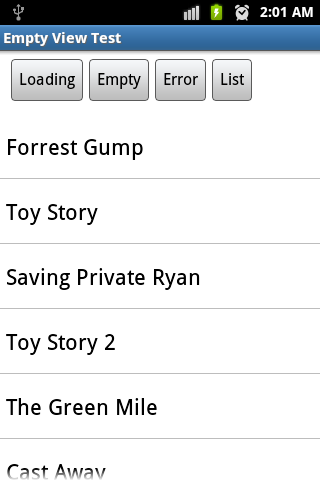
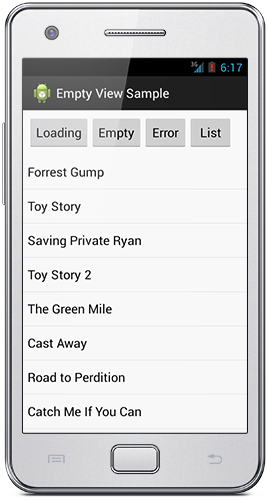
Buttons added in all empty layouts

diff --git a/EmptyLayout/src/com/kanak/emptylayout/EmptyLayout.java b/EmptyLayout/src/com/kanak/emptylayout/EmptyLayout.java
@@ -27,10 +27,12 @@ public class EmptyLayout {
 	private int mErrorMessageViewId;
 	private int mEmptyMessageViewId;
 	private int mLoadingMessageViewId;
-
-    private View.OnClickListener mLoadingViewClickListener;
-    private View.OnClickListener mEmptyViewClickListener;
-    private View.OnClickListener mErrorViewClickListener;
+	private LayoutInflater mInflater;
+	private boolean mViewsAdded;
+	private int mLoadingAnimationViewId;	
+	private View.OnClickListener mLoadingButtonClickListener;
+    private View.OnClickListener mEmptyButtonClickListener;
+    private View.OnClickListener mErrorButtonClickListener;
 
 	// ---------------------------
 	// static variables 
@@ -55,9 +57,12 @@ public class EmptyLayout {
 	private String mErrorMessage = "Oops! Something wrong happened";
 	private String mEmptyMessage = "No items yet";
 	private String mLoadingMessage = "Please wait";
-	private LayoutInflater mInflater;
-	private boolean mViewsAdded;
-	private int mLoadingAnimationViewId;
+	private int mLoadingViewButtonId = R.id.buttonLoading;
+	private int mErrorViewButtonId = R.id.buttonError;
+	private int mEmptyViewButtonId = R.id.buttonEmpty;
+	private boolean mShowEmptyButton = true;
+	private boolean mShowLoadingButton = true;
+	private boolean mShowErrorButton = true;
 
 	// ---------------------------
 	// getters and setters
@@ -283,69 +288,161 @@ public class EmptyLayout {
 	 */
 	public void setLoadingAnimationViewId(int loadingAnimationViewId) {
 		this.mLoadingAnimationViewId = loadingAnimationViewId;
-	}
-
-    /**
-     * Sets the OnClickListener to LoadingView
-     * @param loadingViewClickListener OnClickListener Object
-     */
-    public void setLoadingViewClickListener(View.OnClickListener loadingViewClickListener) {
-        this.mLoadingViewClickListener = loadingViewClickListener;
-        if(mLoadingView != null)
-            mLoadingView.setOnClickListener(mLoadingViewClickListener);
-    }
-
-    /**
-     * Sets the OnClickListener to EmptyView
-     * @param emptyViewClickListener OnClickListener Object
-     */
-    public void setEmptyViewClickListener(View.OnClickListener emptyViewClickListener) {
-        this.mEmptyViewClickListener = emptyViewClickListener;
-        if(mEmptyView != null)
-            mEmptyView.setOnClickListener(mEmptyViewClickListener);
-    }
-
-    /**
-     * Sets the OnClickListener to ErrorView
-     * @param errorViewClickListener OnClickListener Object
-     */
-    public void setErrorViewClickListener(View.OnClickListener errorViewClickListener) {
-        this.mErrorViewClickListener = errorViewClickListener;
-        if(mErrorView != null)
-            mErrorView.setOnClickListener(mErrorViewClickListener);
-    }
-
+	}	
 
     /**
      * Gets the OnClickListener which perform when LoadingView was click
      * @return
      */
-    public View.OnClickListener getLoadingViewClickListener() {
-        return mLoadingViewClickListener;
+    public View.OnClickListener getLoadingButtonClickListener() {
+        return mLoadingButtonClickListener;
     }
 
-
+    /**
+     * Sets the OnClickListener to LoadingView
+     * @param loadingButtonClickListener OnClickListener Object
+     */
+    public void setLoadingButtonClickListener(View.OnClickListener loadingButtonClickListener) {
+        this.mLoadingButtonClickListener = loadingButtonClickListener;
+    }
+    
     /**
      * Gets the OnClickListener which perform when EmptyView was click
      * @return
      */
-    public View.OnClickListener getEmptyViewClickListener() {
-        return mEmptyViewClickListener;
+    public View.OnClickListener getEmptyButtonClickListener() {
+        return mEmptyButtonClickListener;
     }
 
-
+    /**
+     * Sets the OnClickListener to EmptyView
+     * @param emptyButtonClickListener OnClickListener Object
+     */
+    public void setEmptyButtonClickListener(View.OnClickListener emptyButtonClickListener) {
+        this.mEmptyButtonClickListener = emptyButtonClickListener;
+    }
+    
     /**
      * Gets the OnClickListener which perform when ErrorView was click
      * @return
      */
-    public View.OnClickListener getErrorViewClickListener() {
-        return mErrorViewClickListener;
+    public View.OnClickListener getErrorButtonClickListener() {
+        return mErrorButtonClickListener;
     }
+
+    /**
+     * Sets the OnClickListener to ErrorView
+     * @param errorButtonClickListener OnClickListener Object
+     */
+    public void setErrorButtonClickListener(View.OnClickListener errorButtonClickListener) {
+        this.mErrorButtonClickListener = errorButtonClickListener;
+    }
+
+    /**
+     * Gets if a button is shown in the empty view
+     * @return if a button is shown in the empty view
+     */
+    public boolean isEmptyButtonShown() {
+		return mShowEmptyButton;
+	}
+
+    /**
+     * Sets if a button will be shown in the empty view
+     * @param showEmptyButton will a button be shown in the empty view
+     */
+	public void setEmptyButtonShown(boolean showEmptyButton) {
+		this.mShowEmptyButton = showEmptyButton;
+	}
+
+	/**
+     * Gets if a button is shown in the loading view
+     * @return if a button is shown in the loading view
+     */
+	public boolean isLoadingButtonShown() {
+		return mShowLoadingButton;
+	}
+
+	/**
+     * Sets if a button will be shown in the loading view
+     * @param showEmptyButton will a button be shown in the loading view
+     */
+	public void setLoadingButtonShown(boolean showLoadingButton) {
+		this.mShowLoadingButton = showLoadingButton;
+	}
+
+	/**
+     * Gets if a button is shown in the error view
+     * @return if a button is shown in the error view
+     */
+	public boolean isErrorButtonShown() {
+		return mShowErrorButton;
+	}
+
+	/**
+     * Sets if a button will be shown in the error view
+     * @param showEmptyButton will a button be shown in the error view
+     */
+	public void setErrorButtonShown(boolean showErrorButton) {
+		this.mShowErrorButton = showErrorButton;
+	}
+    
+	/**
+	 * Gets the ID of the button in the loading view
+	 * @return the ID of the button in the loading view
+	 */
+	public int getmLoadingViewButtonId() {
+		return mLoadingViewButtonId;
+	}	
+	
+	/**
+	 * Sets the ID of the button in the loading view. This ID is required if you want the button the loading view to be click-able.
+	 * @param loadingViewButtonId the ID of the button in the loading view
+	 */
+	public void setLoadingViewButtonId(int loadingViewButtonId) {
+		this.mLoadingViewButtonId = loadingViewButtonId;
+	}
+
+	/**
+	 * Gets the ID of the button in the error view
+	 * @return the ID of the button in the error view
+	 */
+	public int getErrorViewButtonId() {
+		return mErrorViewButtonId;
+	}
+
+	/**
+	 * Sets the ID of the button in the error view. This ID is required if you want the button the error view to be click-able.
+	 * @param errorViewButtonId the ID of the button in the error view
+	 */
+	public void setErrorViewButtonId(int errorViewButtonId) {
+		this.mErrorViewButtonId = errorViewButtonId;
+	}
+
+	/**
+	 * Gets the ID of the button in the empty view
+	 * @return the ID of the button in the empty view
+	 */
+	public int getEmptyViewButtonId() {
+		return mEmptyViewButtonId;
+	}
+	
+	/**
+	 * Sets the ID of the button in the empty view. This ID is required if you want the button the empty view to be click-able.
+	 * @param emptyViewButtonId the ID of the button in the empty view
+	 */
+	public void setEmptyViewButtonId(int emptyViewButtonId) {
+		this.mEmptyViewButtonId = emptyViewButtonId;
+	}
+
+    
+
+
+    
 
     // ---------------------------
 	// private methods
 	// ---------------------------	
-	
+
 	private void changeEmptyType() {
 		
 		setDefaultValues();
@@ -419,15 +516,48 @@ public class EmptyLayout {
 		if (mEmptyView==null) {
 			mEmptyView = (ViewGroup) mInflater.inflate(R.layout.view_empty, null);
 			if (!(mEmptyMessageViewId>0)) mEmptyMessageViewId = R.id.textViewMessage;
+			if (mShowEmptyButton && mEmptyViewButtonId>0 && mEmptyButtonClickListener!=null) {
+				View emptyViewButton = mEmptyView.findViewById(mEmptyViewButtonId);
+				if (emptyViewButton != null) {
+					emptyViewButton.setOnClickListener(mEmptyButtonClickListener);
+					emptyViewButton.setVisibility(View.VISIBLE);
+				}
+			}
+			else if (mEmptyViewButtonId>0) {
+				View emptyViewButton = mEmptyView.findViewById(mEmptyViewButtonId);
+				emptyViewButton.setVisibility(View.GONE);
+			}
 		}
 		if (mLoadingView==null) {
 			mLoadingView = (ViewGroup) mInflater.inflate(R.layout.view_loading, null);
 			mLoadingAnimationViewId = R.id.imageViewLoading;
 			if (!(mLoadingMessageViewId>0)) mLoadingMessageViewId = R.id.textViewMessage;
+			if (mShowLoadingButton && mLoadingViewButtonId>0 && mLoadingButtonClickListener!=null) {
+				View loadingViewButton = mLoadingView.findViewById(mLoadingViewButtonId);
+				if (loadingViewButton != null) {
+					loadingViewButton.setOnClickListener(mLoadingButtonClickListener);
+					loadingViewButton.setVisibility(View.VISIBLE);
+				}
+			}
+			else if (mLoadingViewButtonId>0) {
+				View loadingViewButton = mLoadingView.findViewById(mLoadingViewButtonId);
+				loadingViewButton.setVisibility(View.GONE);
+			}
 		}
 		if (mErrorView==null) {
 			mErrorView = (ViewGroup) mInflater.inflate(R.layout.view_error, null);
 			if (!(mErrorMessageViewId>0)) mErrorMessageViewId = R.id.textViewMessage;
+			if (mShowErrorButton && mErrorViewButtonId>0 && mErrorButtonClickListener!=null) {
+				View errorViewButton = mErrorView.findViewById(mErrorViewButtonId);
+				if (errorViewButton != null) {
+					errorViewButton.setOnClickListener(mErrorButtonClickListener);
+					errorViewButton.setVisibility(View.VISIBLE);
+				}
+			}
+			else if (mErrorViewButtonId>0) {
+				View errorViewButton = mErrorView.findViewById(mErrorViewButtonId);
+				errorViewButton.setVisibility(View.GONE);
+			}
 		}
 	}
 	

diff --git a/EmptyLayoutSample/src/com/kanak/emptylayoutsample/MainActivity.java b/EmptyLayoutSample/src/com/kanak/emptylayoutsample/MainActivity.java
@@ -8,13 +8,21 @@ import com.kanak.emptylayout.EmptyLayout;
 
 import android.os.Bundle;
 import android.view.View;
+import android.view.View.OnClickListener;
 import android.widget.ArrayAdapter;
+import android.widget.Toast;
 import android.app.ListActivity;
 
 public class MainActivity extends ListActivity {
 
 	private EmptyLayout mEmptyLayout; // this is required to show different layouts (loading or empty or error)
 	private ArrayAdapter<String> mAdapter;
+	private View.OnClickListener mErrorClickListener = new OnClickListener() {			
+		@Override
+		public void onClick(View v) {
+			Toast.makeText(MainActivity.this, "Try again button clicked", Toast.LENGTH_LONG).show();			
+		}
+	};
 	
 	// the list items
 	static final String[] MOVIES = new String[] { 
@@ -45,6 +53,7 @@ public class MainActivity extends ListActivity {
 
 		// initialize the empty view
 		mEmptyLayout = new EmptyLayout(this, getListView());
+		mEmptyLayout.setErrorButtonClickListener(mErrorClickListener);
 		
 		// populate the list view
 		populateList();
